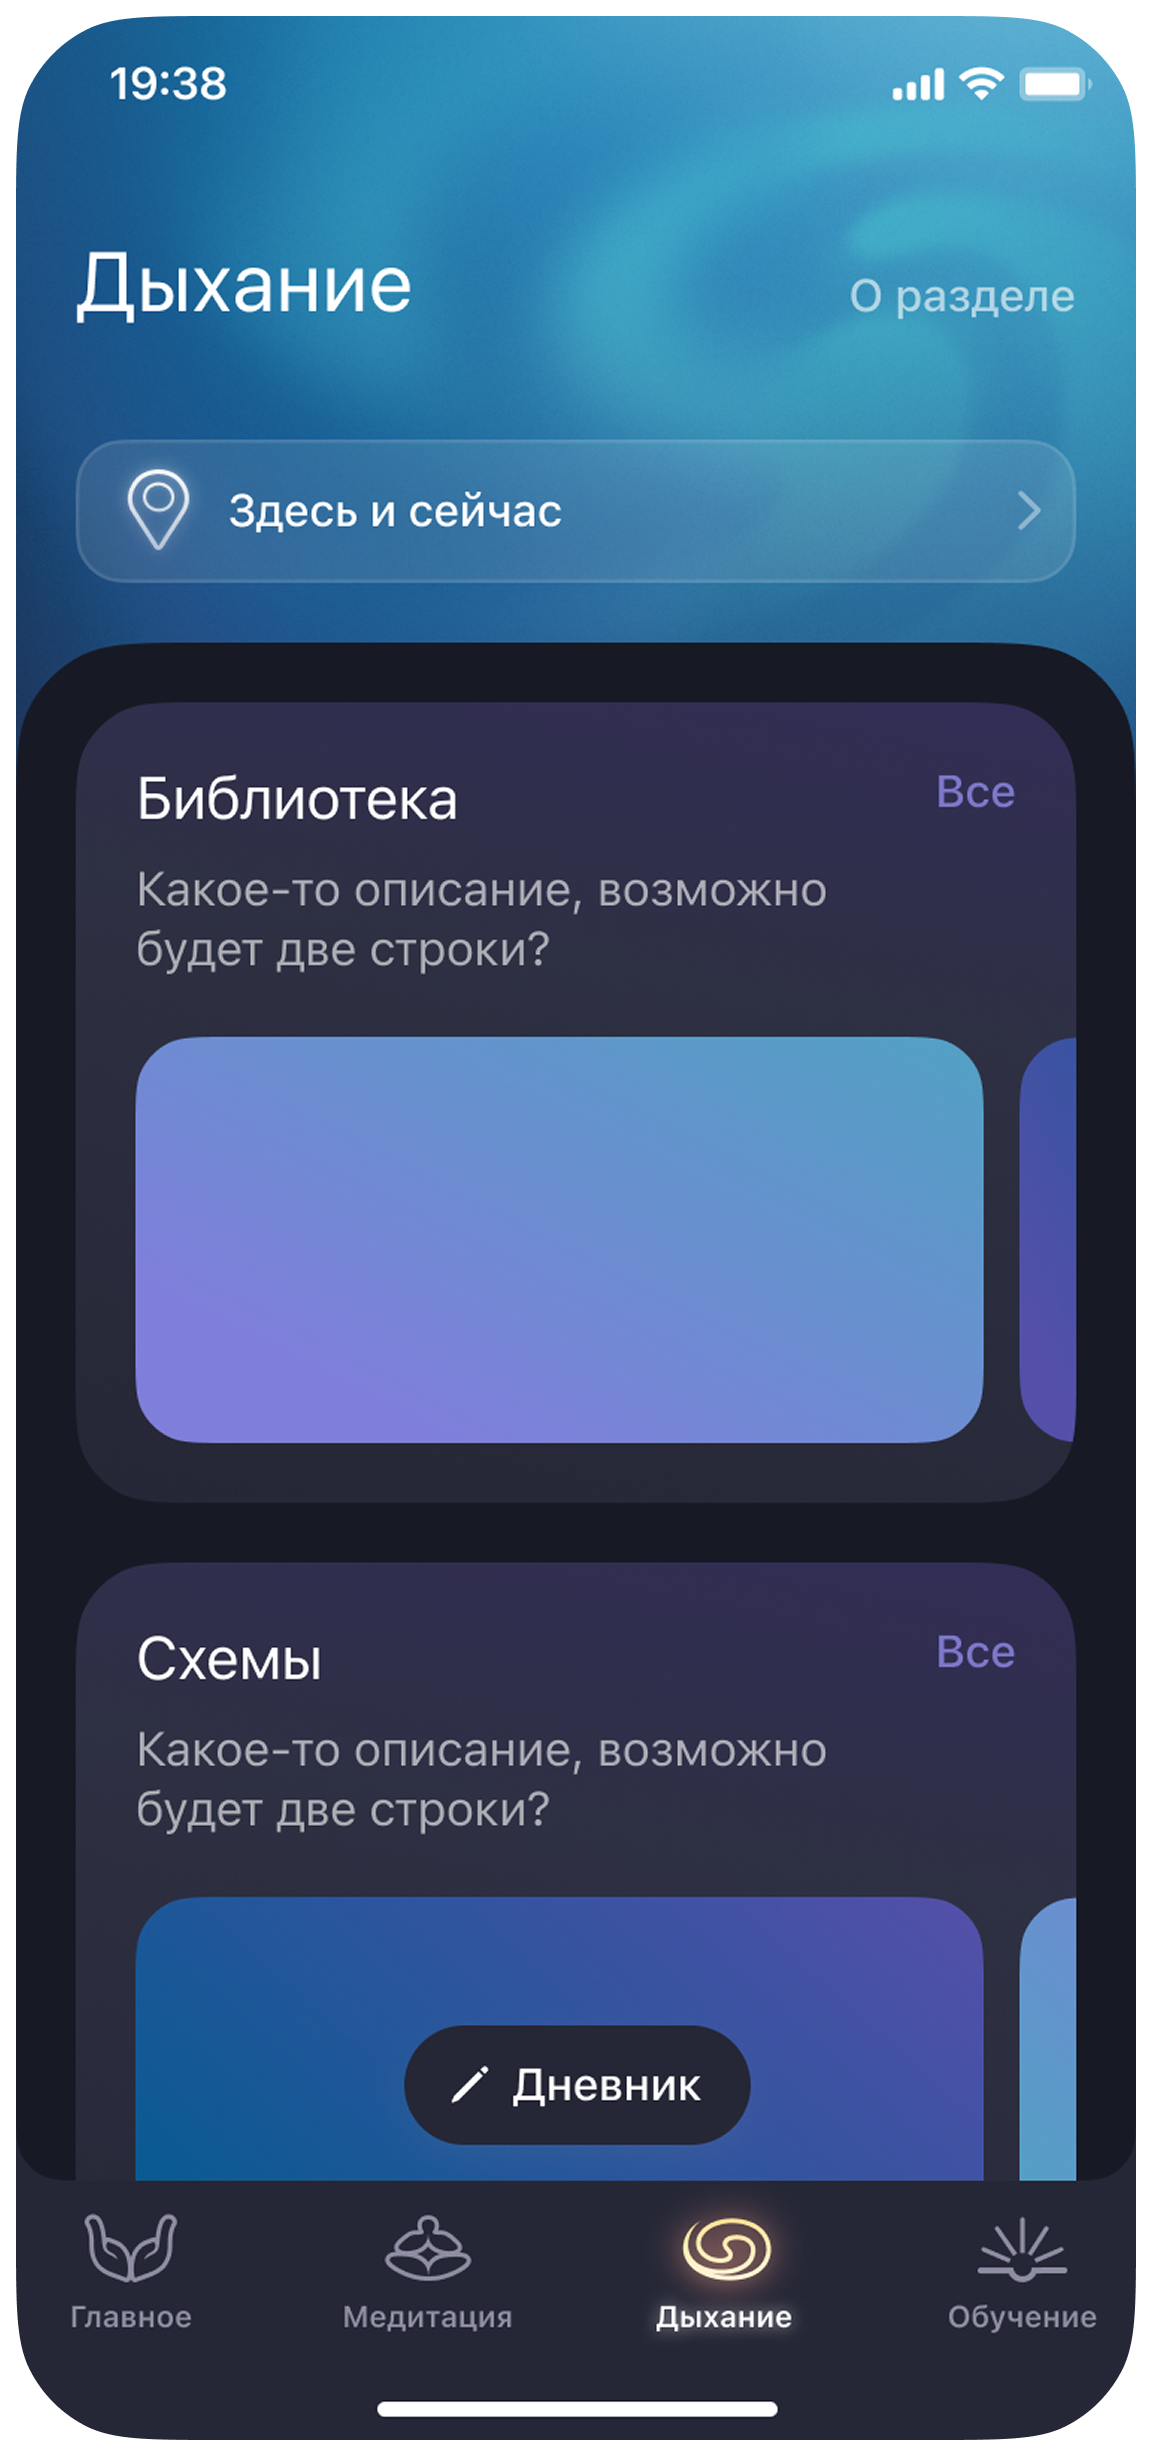
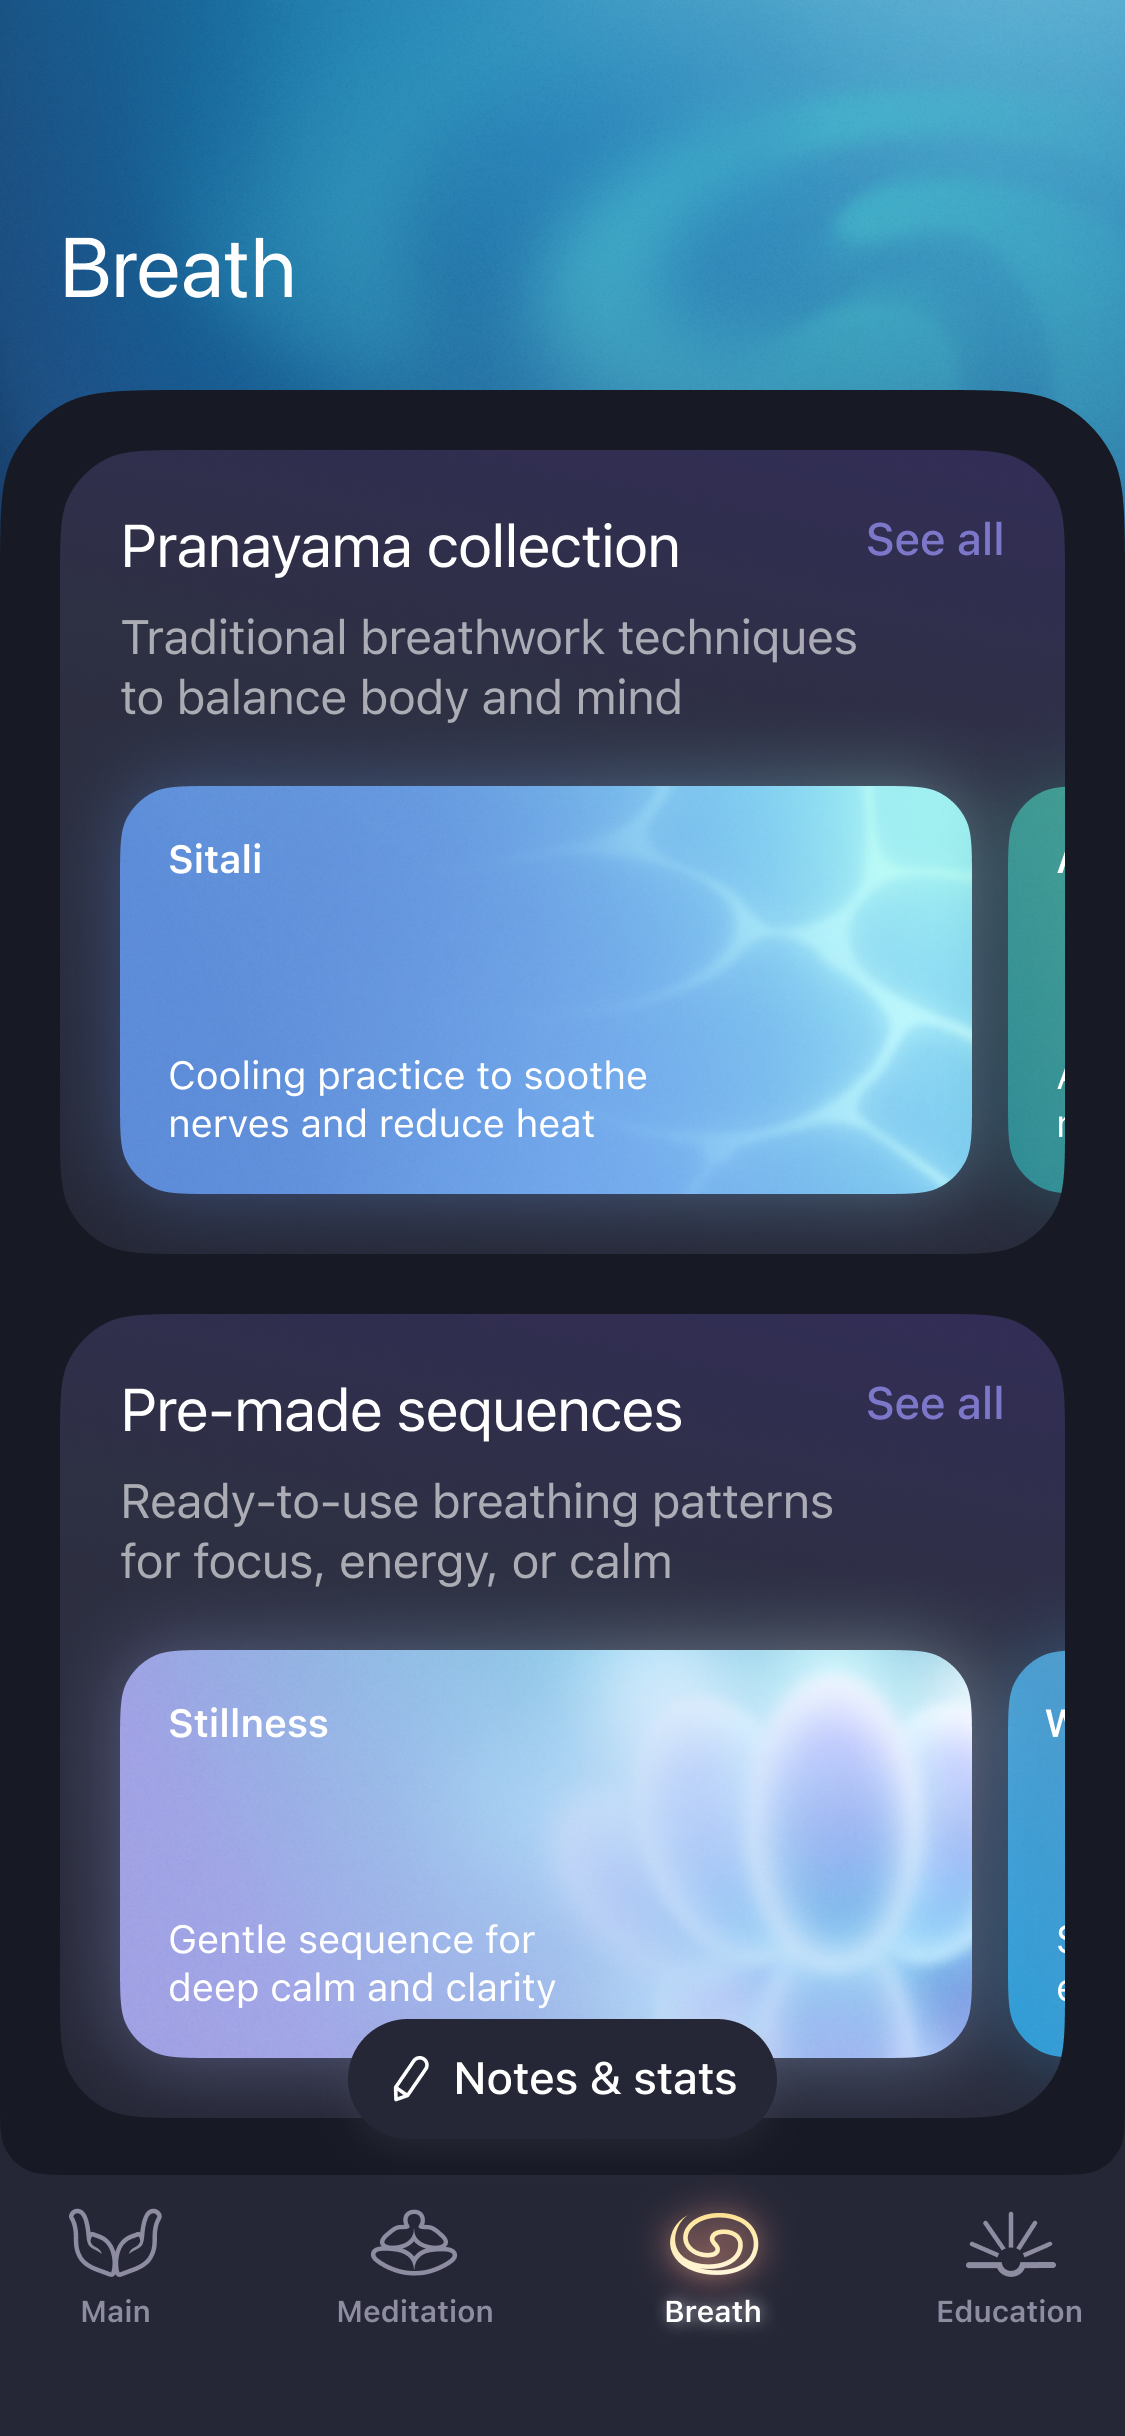
chore: 2nd slide done

diff --git a/src/constants/slides.ts b/src/constants/slides.ts
@@ -41,36 +41,41 @@ export const getRawSlides = (locale: string): RawSlide[] => [
       },
     ],
   },
-
+  {
+    id: "breath",
+    particles: [
+      {
+        src: `/particles/breath/${locale}/1.png`,
+        width: 357,
+        height: 230,
+        position: "left-1/2 -translate-x-[480px] top-[35%] slide-in-from-right-40",
+      },
+      {
+        src: `/particles/breath/${locale}/2.png`,
+        width: 384,
+        height: 228,
+        position: "left-1/2 translate-x-[50px] bottom-[36%] slide-in-from-left-20",
+      },
+      {
+        src: `/particles/breath/ru/3.png`, // одинаковая картинка для всех локалей
+        width: 231,
+        height: 92,
+        position: "left-1/2 translate-x-[180px] bottom-[30%] slide-in-from-left-20",
+      },
+    ],
+  },
   {
     id: "meditation",
     particles: [
       {
-        src: `/particles/meditation-1.svg`,
+        src: `/particles/meditation/${locale}/1.png`,
         width: 414,
         height: 192,
         position: "left-1/2 -translate-x-1/2 top-0 -translate-y-full",
       },
       {
-        src: `/particles/meditation-2.svg`,
+        src: `/particles/meditation/${locale}/2.png`,
         width: 411,
-        height: 228,
-        position: "left-1/2 -translate-x-1/2 bottom-0 translate-y-full",
-      },
-    ],
-  },
-  {
-    id: "breath",
-    particles: [
-      {
-        src: `/particles/breath-1.png`,
-        width: 357,
-        height: 230,
-        position: "left-1/4 top-0 -translate-y-full",
-      },
-      {
-        src: `/particles/breath-2.svg`,
-        width: 384,
         height: 228,
         position: "left-1/2 -translate-x-1/2 bottom-0 translate-y-full",
       },
@@ -80,7 +85,7 @@ export const getRawSlides = (locale: string): RawSlide[] => [
     id: "yoga",
     particles: [
       {
-        src: `/particles/yoga-1.svg`,
+        src: `/particles/yoga-1.png`,
         width: 307,
         height: 132,
         position: "left-1/2 -translate-x-1/2 top-0 -translate-y-full",

diff --git a/src/components/modules/scroll-fade.tsx b/src/components/modules/scroll-fade.tsx
@@ -205,7 +205,7 @@ export function ScrollFade() {
             </div>
 
             {/* Частицы */}
-            <div className="-z-10 absolute inset-0 hidden md:block">
+            <div className="-z-10 absolute inset-0 hidden overflow-hidden md:block">
               {slide.particles.map((p, pi) => (
                 <Particle
                   key={`${p.src}-${i}-${pi}`}
@@ -225,7 +225,7 @@ export function ScrollFade() {
             </div>
 
             {/* Изображение по центру */}
-            <div className="absolute inset-0 flex items-center justify-center">
+            <div className="absolute inset-0 mb-10 flex items-center justify-center">
               <Image
                 src={slide.image}
                 alt={slide.title}
@@ -237,7 +237,7 @@ export function ScrollFade() {
 
             {/* Подписи слайда по центру (анимируются вместе со слайдом) */}
             {panelVisible && i === activeIndex && (
-              <div className="-translate-x-1/2 absolute bottom-10 left-1/2 z-40 flex max-w-md flex-col items-center text-center">
+              <div className="-translate-x-1/2 absolute bottom-10 left-1/2 z-40 flex max-w-[520px] flex-col items-center text-center">
                 <h4 className="mb-2 font-bold text-2xl">{slide.title}</h4>
                 <h5 className="font-medium text-base text-white/80">{slide.description}</h5>
               </div>
